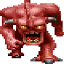
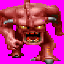
Sprites now use magenta as keycolor

diff --git a/DungeonsGame.cs b/DungeonsGame.cs
@@ -96,7 +96,7 @@ namespace DungeonsAndDungeons
 
             Item knife = new Item(new Sprite(Content.Load<Texture2D>("knife")), new Vector2(17.5f, 6.5f));
 
-            Player player = new Player(new Vector2(17.5f, 4.5f), new Vector2(0, 1), new Inventory() { }, 100, new List<Sprite>() { });
+            Player player = new Player(new Vector2(17.5f, 4.5f), new Vector2(0, 1), new Inventory() { knife,knife }, 100, new List<Sprite>() { });
 
             Entity demon = new Monster(new Vector2(17.5f, 8.5f),
                                        new Vector2(0, 1),
@@ -174,7 +174,7 @@ namespace DungeonsAndDungeons
 
             Color[] colors = renderer.Render(camera, level);
             screen.SetData<Color>(colors);
-            spriteBatch.Draw(screen, destinationRectangle: new Rectangle(0, 0, ScreenWidth, ScreenHeight));
+            spriteBatch.Draw(screen, new Rectangle(0, 0, ScreenWidth, ScreenHeight), Color.White);
 
             if (Configuration.Value<bool>("enableOverlay"))
             {

diff --git a/Code/Renderer.cs b/Code/Renderer.cs
@@ -322,10 +322,8 @@ namespace DungeonsAndDungeons
                         int d = (y) * 256 - ScreenHeight * 128 + spriteHeight * 128; //256 and 128 factors to avoid floats
                         int texY = ((d * TexHeight) / spriteHeight) / 256;
                         Color color = GetPixel(renderable.Sprite, texX, texY); //get current color from the texture
-                        if (color != Color.White)
-                        {
-                            _buffer[y * ScreenWidth + stripe] = color; //paint pixel if it isn't black, black is the invisible color
-                        }
+                        if (color != Color.Transparent)
+                            _buffer[y * ScreenWidth + stripe] = color;
                     }
                 }
             }

diff --git a/Code/GUI/GUIRenderer.cs b/Code/GUI/GUIRenderer.cs
@@ -32,6 +32,9 @@ namespace DungeonsAndDungeons.GUI
         private void RenderInventory(SpriteBatch batch, Inventory inventory)
         {
             batch.Draw(MakeTexture(Color.Black), InventoryRectangle, Color.White);
+
+            Rectangle inventorySquare = new Rectangle(InventoryRectangle.X, InventoryRectangle.Y, 1, 1);
+
             for (int i = 0; i < inventory.Count; i++)
             {
                 batch.Draw(inventory[i].Sprite, new Rectangle(inventory[i].Sprite.Width * i, InventoryRectangle.Y+100,
